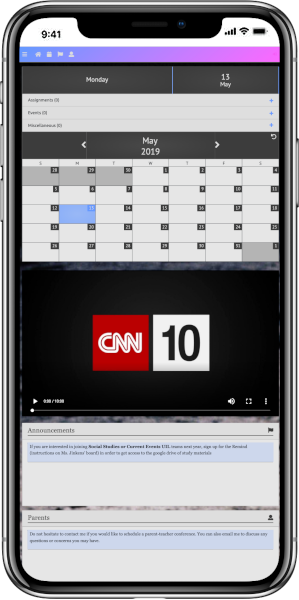
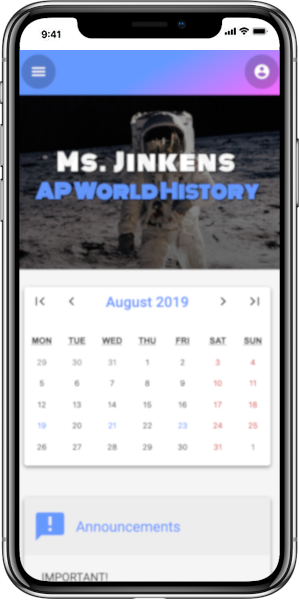
Update djinkens site

diff --git a/src/components/projects/Projects.js b/src/components/projects/Projects.js
@@ -45,13 +45,41 @@ const projects = [
         linkAddress: 'https://www.datacloud.com/',
         longDescription: (
             <p>
-                This page was built using Webflow, allowing for the development of a clean modern
+                This page was built using Webflow, allowing for the development of a clean, modern
                 web application that can be updated as needed by the client.
             </p>
         ),
         mobileImageLandscape: false,
         shortDescription: 'A marketing website built in Webflow',
         title: 'DataCloud Marketing Page',
+    },
+    {
+        imageDesktop: '/images/class-site.png',
+        imageDesktopAlt: 'djinkens.org',
+        imageMobile: '/images/class-site-mobile.png',
+        imageMobileAlt: 'djinkens.org mobile',
+        linkAddress: 'https://djinkens.org',
+        longDescription: (
+            <Fragment>
+                <p>
+                    This app was built using React, Redux, and Redux Sagas, and is hosted on Hosted
+                    on Google Firebase. The app provides a secure login to allow authorized users
+                    the ability to manage the app&#39;s content including files, announcements,
+                    assignments, and calendar items. On the backend, content and data is managed
+                    using Firebase's Cloud Functions, Firestore database, and storage buckets.
+                </p>
+                <p>
+                    All text-based content features a WYSIWYG editor allowing custom formatting, and
+                    embedded images and video. The app also features a daily news video from CNN10,
+                    which is accessed through the CNN.com RSS feed and embedded into the page.
+                </p>
+            </Fragment>
+        ),
+        mobileImageLandscape: false,
+        reverse: false,
+        shortDescription:
+            'A homepage for students to keep up to date with course materials and important events',
+        title: 'djinkens.org',
     },
     {
         imageDesktop: '/images/photo-blog.png',
@@ -86,33 +114,6 @@ const projects = [
         mobileImageLandscape: false,
         shortDescription: 'A React app for connecting people with charities to make giving easy',
         title: 'givingclearly.com (In Progress)',
-    },
-    {
-        imageDesktop: '/images/class-site.png',
-        imageDesktopAlt: 'class site',
-        imageMobile: '/images/class-site-mobile.png',
-        imageMobileAlt: 'class site mobile',
-        linkAddress: 'http://djinkens.com/apwh',
-        longDescription: (
-            <Fragment>
-                <p>
-                    This app was built using Bootstrap, jQuery, Node.js, Express, and MongoDB, and
-                    is hosted on AWS. The app provides a secure login to allow authorized users the
-                    ability to manage the app&#39;s content including files, announcements,
-                    assignments, and calendar items.
-                </p>
-                <p>
-                    All text-based content features a WYSIWYG editor allowing custom formatting, and
-                    embedded images and video. The app also features a daily news video from CNN10,
-                    which is accessed through the CNN.com RSS feed and embedded into the page.
-                </p>
-            </Fragment>
-        ),
-        mobileImageLandscape: false,
-        reverse: false,
-        shortDescription:
-            'A homepage for students to keep up to date with course materials and important events',
-        title: 'Class Homepage',
     },
     {
         imageDesktop: '/images/crypto.png',
